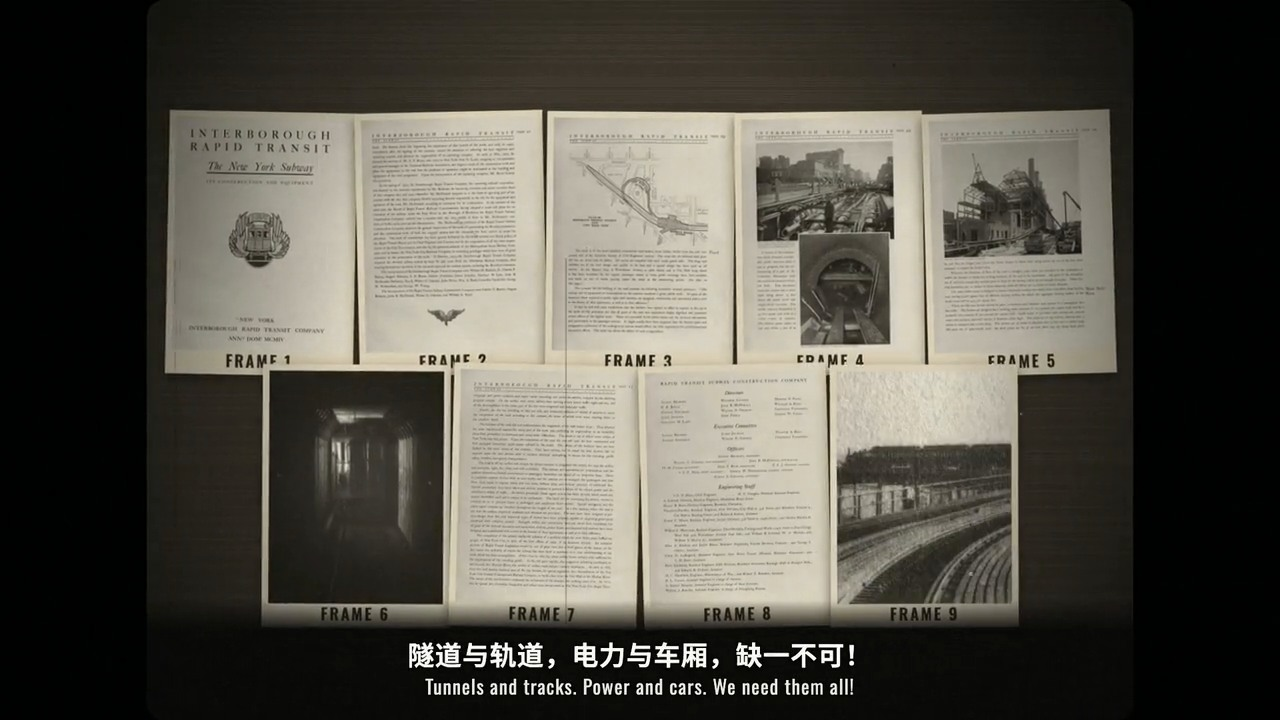
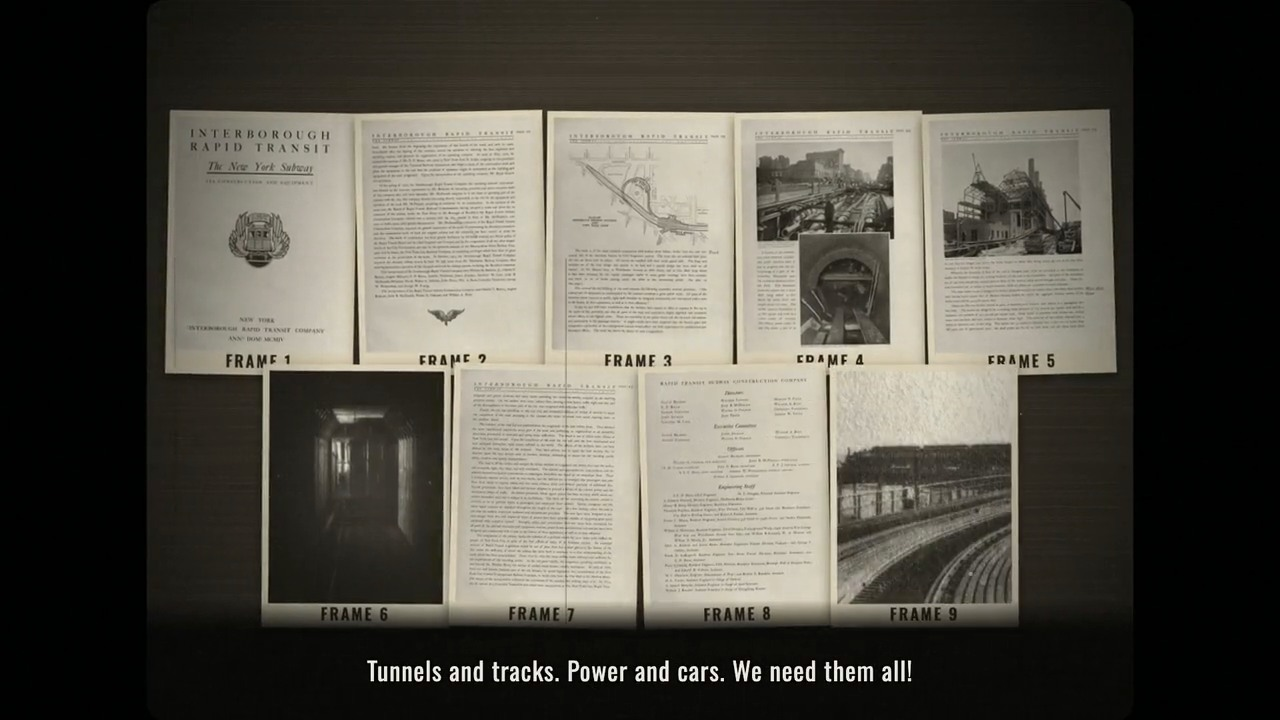
Publish fully English Newsreel films

Changed region(s): [[0.2812, 0.8861, 0.7188, 0.9778]]

diff --git a/styles/newsreel/showcase/index.html b/styles/newsreel/showcase/index.html
@@ -1,2 +1,2 @@
-<!doctype html><html lang="en"><head><meta charset="utf-8"><meta name="viewport" content="width=device-width,initial-scale=1"><meta name="theme-color" content="#eae2cd"><meta name="description" content="Newsreel: archival pictures, spinning headlines, paper montages and a voice from the projection booth. Two original films and an interactive guide from Codex Film Studio."><title>Newsreel — Codex Film Studio</title><link rel="icon" href="../../../catalog/mark.svg" type="image/svg+xml"><link rel="stylesheet" href="showcase.css"><script type="module" src="showcase.mjs"></script></head><body><a data-en="Skip to the films" data-zh="跳到放映厅" class="skip" href="#screening">Skip to the films</a><div class="paper"><header><div class="utility"><a class="studio" data-home href="../../../index.html">CODEX / FILM STUDIO</a><nav><a data-en="All styles ↗" data-zh="全部风格 ↗" data-home href="../../../index.html#library">All styles ↗</a><a data-en="Make a film" data-zh="创作一部影片" href="#make">Make a film</a><a data-en="Sources" data-zh="来源与鸣谢" href="#sources">Sources</a></nav><div class="languages" role="group" aria-label="Page language / 页面语言"><button data-lang="en" aria-pressed="true">EN</button><button data-lang="zh" aria-pressed="false">中文</button></div></div><div class="masthead"><span class="mast-seal" aria-hidden="true">24<br><small>FRAMES<br>PER SECOND</small></span><div><p class="overline">THE CODEX MOVING PICTURE GAZETTE</p><h1>NEWSREEL</h1></div><span class="extra" aria-hidden="true">EXTRA!<br><small>PICTURES<br>THAT MOVE</small></span></div><div class="issue"><span data-en="ARCHIVE PICTURES · NEW STORIES" data-zh="档案影像 · 全新故事" >ARCHIVE PICTURES · NEW STORIES</span><span data-en="THE DOUBLE FEATURE EDITION" data-zh="双片放映特刊" >THE DOUBLE FEATURE EDITION</span><span data-en="SOUND ON. LIGHTS DOWN." data-zh="打开声音，暗下灯光。" >SOUND ON. LIGHTS DOWN.</span></div></header><main><section id="screening" class="screening" aria-labelledby="screening-title"><div class="screening-heading"><div><p data-en="01 / NOW SHOWING" data-zh="01 / 正在放映" class="overline">01 / NOW SHOWING</p><h2 data-en="Yesterday, in motion." data-zh="昨日，开始流动。" id="screening-title">Yesterday, in motion.</h2></div><p data-en="Two stories. One projection booth. Original narration and real archival pictures, brought together in the language of the old newsreel." data-zh="两段故事，一间放映室。全新旁白与真实档案影像，重新组装成老新闻片的语言。" class="dek">Two stories. One projection booth. Original narration and real archival pictures, brought together in the language of the old newsreel.</p></div><div class="cinema-layout"><div class="projector"><div class="projector-bar"><span>NEWSREEL / SOUND PICTURES</span><span id="film-meta">03:00 · 24 FPS</span></div><video id="film" controls playsinline preload="metadata" src="https://github.com/visiontrail/codex-film-studio/releases/download/newsreel-double-feature-v2/subway.mp4" poster="media/subway.jpg" aria-label="Newsreel film"><track kind="subtitles" src="media/subway.en.vtt" srclang="en" label="English"></video><div class="projector-bottom"><button id="film-play" type="button"><span data-en="▶ Start the reel" data-zh="▶ 开始放映" >▶ Start the reel</span></button><a id="download" href="https://github.com/visiontrail/codex-film-studio/releases/download/newsreel-double-feature-v2/subway.mp4" download><span data-en="Download MP4 ↗" data-zh="下载 MP4 ↗" >Download MP4 ↗</span></a><span class="format">H.264 / AAC</span></div><p id="film-error" role="status" hidden></p></div><aside class="programme"><p class="overline"><span data-en="THE PROGRAMME" data-zh="本期片目" >THE PROGRAMME</span></p><div id="films" role="group" aria-label="Choose a film / 选择影片"></div><div class="programme-note"><span class="star" aria-hidden="true">✳</span><p data-en="English announcer.&lt;br&gt;Chinese &amp; English captions.&lt;br&gt;Three minutes per reel." data-zh="英文播音。&lt;br&gt;中英双语字幕。&lt;br&gt;每卷，三分钟。" >English announcer.<br>Chinese & English captions.<br>Three minutes per reel.</p></div><p class="web-note"><span data-en="Complete 720p web editions. The 1080p masters remain in the independent production." data-zh="这里播放完整的 720p 网络版，1080p 原片保留在独立制作工程。" >Complete 720p web editions. The 1080p masters remain in the independent production.</span></p></aside></div><div class="film-caption"><h3 id="film-title"><span data-en="The feature presentation" data-zh="本期影片" >The feature presentation</span></h3><p id="film-description"></p></div><div class="chapter-label"><h3 data-en="The reel, chapter by chapter." data-zh="沿着片章，进入故事。" >The reel, chapter by chapter.</h3><span data-en="CHOOSE A CHAPTER TO SEEK" data-zh="点击片章，跳转播放" class="overline">CHOOSE A CHAPTER TO SEEK</span></div><div id="chapters" class="chapters"></div><details class="transcript"><summary><span data-en="Read the narration" data-zh="阅读旁白" >Read the narration</span><span aria-hidden="true">＋</span></summary><div id="transcript"></div></details><noscript><p>Watch the film above. <a href="https://github.com/visiontrail/codex-film-studio/releases/download/newsreel-double-feature-v2/weekend.mp4">Watch the second film</a>. Enable JavaScript for language, chapters and interactive study.</p></noscript></section><section id="language" class="language-section ruled"><div class="section-title"><div><p data-en="02 / THE VISUAL LANGUAGE" data-zh="02 / 风格语言" class="overline">02 / THE VISUAL LANGUAGE</p><h2 data-en="Ink. Silver. A little static." data-zh="油墨，银幕，&lt;br&gt;一点沙沙声。" >Ink. Silver. A little static.</h2></div><p data-en="A newspaper that refuses to sit still. Print has weight, pictures have age, and the next headline is always on its way." data-zh="一份不肯安静的报纸。纸张有分量，影像有年代，下一条新闻随时到来。" class="dek">A newspaper that refuses to sit still. Print has weight, pictures have age, and the next headline is always on its way.</p></div><div class="editorial-columns"><article><div class="rule-art paper-mark" aria-hidden="true"><span>EXTRA!</span></div><span class="overline">01</span><h3 data-en="The paper carries the story." data-zh="让纸张承载故事。" >The paper carries the story.</h3><p data-en="Headlines spin into view. Nine portrait cards form a 5 + 4 montage, then the first picture fills the screen. The page turns from its spine." data-zh="头条旋入画面。九张竖卡以五加四排开，第一张照片随后放大。翻页从书脊开始。" >Headlines spin into view. Nine portrait cards form a 5 + 4 montage, then the first picture fills the screen. The page turns from its spine.</p></article><article><div class="rule-art gate-mark" aria-hidden="true"><span>◉</span></div><span class="overline">02</span><h3 data-en="Keep a little imperfection." data-zh="保留一点不完美。" >Keep a little imperfection.</h3><p data-en="Warm monochrome, rounded gates, dust and restrained weave. Let the archival image remain legible beneath the film texture." data-zh="暖调黑白、圆角片门、尘点与轻微走片。胶片纹理之下，档案画面依然要看得清楚。" >Warm monochrome, rounded gates, dust and restrained weave. Let the archival image remain legible beneath the film texture.</p></article><article><div class="rule-art sound-mark" aria-hidden="true"><span>▂▅▃▇▂▆▃</span></div><span class="overline">03</span><h3 data-en="Give the edit a voice." data-zh="让剪辑带着声音。" >Give the edit a voice.</h3><p data-en="An urgent announcer, a brisk band, a paper snap. Voice, captions, camera and foley meet on the same frame." data-zh="急促的播音、轻快的乐队、纸张落下的一声脆响。旁白、字幕、镜头与拟音对准同一帧。" >An urgent announcer, a brisk band, a paper snap. Voice, captions, camera and foley meet on the same frame.</p></article></div></section><section id="study" class="study ruled"><div class="section-title"><div><p data-en="03 / AT THE EDITING TABLE" data-zh="03 / 剪辑台上" class="overline">03 / AT THE EDITING TABLE</p><h2 data-en="Turn the handle." data-zh="转动放映机。" >Turn the handle.</h2></div><p data-en="An original, silent study of the style. Play the sequence, move the film strip, or jump directly to an effect." data-zh="一段原创的无声风格演示。播放全段、拖动胶片，或直接跳到某个效果。" class="dek">An original, silent study of the style. Play the sequence, move the film strip, or jump directly to an effect.</p></div><div class="study-layout"><div class="study-screen"><canvas id="study-canvas" width="1280" height="720" role="img" aria-label="Animated paper, nine cards, a turning page and an iris transition / 纸张、九张卡片、翻页和光圈转场"></canvas><div class="study-label"><span id="effect-label">01 / EXTRA! EXTRA!</span><span>STYLE STUDY / 20 SEC / SILENT</span></div></div><div class="effect-list" role="group" aria-label="Choose an effect / 选择效果"><button type="button" data-effect="0" aria-pressed="true"><span class="effect-number">01</span><span><b data-en="Spinning headline" data-zh="旋转头条" >Spinning headline</b><small>PAPER / IMPACT</small></span><span aria-hidden="true">↗</span></button><button type="button" data-effect="1" aria-pressed="false"><span class="effect-number">02</span><span><b data-en="Nine-frame montage" data-zh="九张纸卡" >Nine-frame montage</b><small>5 + 4 / ZOOM</small></span><span aria-hidden="true">↗</span></button><button type="button" data-effect="2" aria-pressed="false"><span class="effect-number">03</span><span><b data-en="Turn the page" data-zh="书脊翻页" >Turn the page</b><small>HINGE / SHADOW</small></span><span aria-hidden="true">↗</span></button><button type="button" data-effect="3" aria-pressed="false"><span class="effect-number">04</span><span><b data-en="Close the iris" data-zh="光圈收幕" >Close the iris</b><small>CIRCLE / HOLD</small></span><span aria-hidden="true">↗</span></button></div></div><div class="transport"><button id="study-play" type="button" aria-pressed="false">▶ Play study</button><button id="study-restart" type="button" aria-label="Restart study / 重新开始">↺</button><label class="sr-only" for="study-time">Study time / 演示时间</label><input id="study-time" type="range" min="0" max="20" value="2.7" step="0.0416666667"><output id="study-clock">02.70 / 20.00</output><label class="texture-toggle"><input id="texture" type="checkbox" checked><span data-en="Film texture" data-zh="胶片质感" >Film texture</span></label></div><p data-en="Starts paused. The drawings are schematic, made for this study; they are not historical evidence." data-zh="默认暂停。演示中的图形为示意绘制，不作为历史资料。" class="study-note">Starts paused. The drawings are schematic, made for this study; they are not historical evidence.</p></section><section id="make" class="make ruled"><div class="section-title"><div><p data-en="04 / FILE YOUR OWN DISPATCH" data-zh="04 / 发出你的新闻" class="overline">04 / FILE YOUR OWN DISPATCH</p><h2 data-en="Your story.&lt;br&gt;Hot off the press." data-zh="你的故事，&lt;br&gt;即刻付印。" >Your story.<br>Hot off the press.</h2></div><p data-en="Bring a subject, an audience and a running time. Find the pictures that belong to that story, then give them a shared clock." data-zh="带来题材、观众和时长。找到属于这段故事的画面，再让它们对准同一个时钟。" class="dek">Bring a subject, an audience and a running time. Find the pictures that belong to that story, then give them a shared clock.</p></div><ol class="steps"><li><span>01</span><h3 data-en="Get the studio." data-zh="取得工作室。" >Get the studio.</h3><p data-en="Clone the library and open it in Codex." data-zh="克隆风格库，在 Codex 中打开。" >Clone the library and open it in Codex.</p><pre><code>git clone https://github.com/visiontrail/codex-film-studio.git
+<!doctype html><html lang="en"><head><meta charset="utf-8"><meta name="viewport" content="width=device-width,initial-scale=1"><meta name="theme-color" content="#eae2cd"><meta name="description" content="Newsreel: archival pictures, spinning headlines, paper montages and a voice from the projection booth. Two original films and an interactive guide from Codex Film Studio."><title>Newsreel — Codex Film Studio</title><link rel="icon" href="../../../catalog/mark.svg" type="image/svg+xml"><link rel="stylesheet" href="showcase.css"><script type="module" src="showcase.mjs"></script></head><body><a data-en="Skip to the films" data-zh="跳到放映厅" class="skip" href="#screening">Skip to the films</a><div class="paper"><header><div class="utility"><a class="studio" data-home href="../../../index.html">CODEX / FILM STUDIO</a><nav><a data-en="All styles ↗" data-zh="全部风格 ↗" data-home href="../../../index.html#library">All styles ↗</a><a data-en="Make a film" data-zh="创作一部影片" href="#make">Make a film</a><a data-en="Sources" data-zh="来源与鸣谢" href="#sources">Sources</a></nav><div class="languages" role="group" aria-label="Page language / 页面语言"><button data-lang="en" aria-pressed="true">EN</button><button data-lang="zh" aria-pressed="false">中文</button></div></div><div class="masthead"><span class="mast-seal" aria-hidden="true">24<br><small>FRAMES<br>PER SECOND</small></span><div><p class="overline">THE CODEX MOVING PICTURE GAZETTE</p><h1>NEWSREEL</h1></div><span class="extra" aria-hidden="true">EXTRA!<br><small>PICTURES<br>THAT MOVE</small></span></div><div class="issue"><span data-en="ARCHIVE PICTURES · NEW STORIES" data-zh="档案影像 · 全新故事" >ARCHIVE PICTURES · NEW STORIES</span><span data-en="THE DOUBLE FEATURE EDITION" data-zh="双片放映特刊" >THE DOUBLE FEATURE EDITION</span><span data-en="SOUND ON. LIGHTS DOWN." data-zh="打开声音，暗下灯光。" >SOUND ON. LIGHTS DOWN.</span></div></header><main><section id="screening" class="screening" aria-labelledby="screening-title"><div class="screening-heading"><div><p data-en="01 / NOW SHOWING" data-zh="01 / 正在放映" class="overline">01 / NOW SHOWING</p><h2 data-en="Yesterday, in motion." data-zh="昨日，开始流动。" id="screening-title">Yesterday, in motion.</h2></div><p data-en="Two stories. One projection booth. Original narration and real archival pictures, brought together in the language of the old newsreel." data-zh="两段故事，一间放映室。全新旁白与真实档案影像，重新组装成老新闻片的语言。" class="dek">Two stories. One projection booth. Original narration and real archival pictures, brought together in the language of the old newsreel.</p></div><div class="cinema-layout"><div class="projector"><div class="projector-bar"><span>NEWSREEL / SOUND PICTURES</span><span id="film-meta">03:00 · 24 FPS</span></div><video id="film" controls playsinline preload="metadata" src="https://github.com/visiontrail/codex-film-studio/releases/download/newsreel-english-v3/subway.mp4" poster="media/subway.jpg" aria-label="Newsreel film"><track kind="subtitles" src="media/subway.en.vtt" srclang="en" label="English"></video><div class="projector-bottom"><button id="film-play" type="button"><span data-en="▶ Start the reel" data-zh="▶ 开始放映" >▶ Start the reel</span></button><a id="download" href="https://github.com/visiontrail/codex-film-studio/releases/download/newsreel-english-v3/subway.mp4" download><span data-en="Download MP4 ↗" data-zh="下载 MP4 ↗" >Download MP4 ↗</span></a><span class="format">H.264 / AAC</span></div><p id="film-error" role="status" hidden></p></div><aside class="programme"><p class="overline"><span data-en="THE PROGRAMME" data-zh="本期片目" >THE PROGRAMME</span></p><div id="films" role="group" aria-label="Choose a film / 选择影片"></div><div class="programme-note"><span class="star" aria-hidden="true">✳</span><p data-en="English announcer.&lt;br&gt;English titles &amp; captions.&lt;br&gt;Three minutes per reel." data-zh="英文播音。&lt;br&gt;英文标题与字幕。&lt;br&gt;每卷，三分钟。" >English announcer.<br>English titles & captions.<br>Three minutes per reel.</p></div><p class="web-note"><span data-en="Complete 720p web editions. The 1080p masters remain in the independent production." data-zh="这里播放完整的 720p 网络版，1080p 原片保留在独立制作工程。" >Complete 720p web editions. The 1080p masters remain in the independent production.</span></p></aside></div><div class="film-caption"><h3 id="film-title"><span data-en="The feature presentation" data-zh="本期影片" >The feature presentation</span></h3><p id="film-description"></p></div><div class="chapter-label"><h3 data-en="The reel, chapter by chapter." data-zh="沿着片章，进入故事。" >The reel, chapter by chapter.</h3><span data-en="CHOOSE A CHAPTER TO SEEK" data-zh="点击片章，跳转播放" class="overline">CHOOSE A CHAPTER TO SEEK</span></div><div id="chapters" class="chapters"></div><details class="transcript"><summary><span data-en="Read the narration" data-zh="阅读旁白" >Read the narration</span><span aria-hidden="true">＋</span></summary><div id="transcript"></div></details><noscript><p>Watch the film above. <a href="https://github.com/visiontrail/codex-film-studio/releases/download/newsreel-english-v3/weekend.mp4">Watch the second film</a>. Enable JavaScript for language, chapters and interactive study.</p></noscript></section><section id="language" class="language-section ruled"><div class="section-title"><div><p data-en="02 / THE VISUAL LANGUAGE" data-zh="02 / 风格语言" class="overline">02 / THE VISUAL LANGUAGE</p><h2 data-en="Ink. Silver. A little static." data-zh="油墨，银幕，&lt;br&gt;一点沙沙声。" >Ink. Silver. A little static.</h2></div><p data-en="A newspaper that refuses to sit still. Print has weight, pictures have age, and the next headline is always on its way." data-zh="一份不肯安静的报纸。纸张有分量，影像有年代，下一条新闻随时到来。" class="dek">A newspaper that refuses to sit still. Print has weight, pictures have age, and the next headline is always on its way.</p></div><div class="editorial-columns"><article><div class="rule-art paper-mark" aria-hidden="true"><span>EXTRA!</span></div><span class="overline">01</span><h3 data-en="The paper carries the story." data-zh="让纸张承载故事。" >The paper carries the story.</h3><p data-en="Headlines spin into view. Nine portrait cards form a 5 + 4 montage, then the first picture fills the screen. The page turns from its spine." data-zh="头条旋入画面。九张竖卡以五加四排开，第一张照片随后放大。翻页从书脊开始。" >Headlines spin into view. Nine portrait cards form a 5 + 4 montage, then the first picture fills the screen. The page turns from its spine.</p></article><article><div class="rule-art gate-mark" aria-hidden="true"><span>◉</span></div><span class="overline">02</span><h3 data-en="Keep a little imperfection." data-zh="保留一点不完美。" >Keep a little imperfection.</h3><p data-en="Warm monochrome, rounded gates, dust and restrained weave. Let the archival image remain legible beneath the film texture." data-zh="暖调黑白、圆角片门、尘点与轻微走片。胶片纹理之下，档案画面依然要看得清楚。" >Warm monochrome, rounded gates, dust and restrained weave. Let the archival image remain legible beneath the film texture.</p></article><article><div class="rule-art sound-mark" aria-hidden="true"><span>▂▅▃▇▂▆▃</span></div><span class="overline">03</span><h3 data-en="Give the edit a voice." data-zh="让剪辑带着声音。" >Give the edit a voice.</h3><p data-en="An urgent announcer, a brisk band, a paper snap. Voice, captions, camera and foley meet on the same frame." data-zh="急促的播音、轻快的乐队、纸张落下的一声脆响。旁白、字幕、镜头与拟音对准同一帧。" >An urgent announcer, a brisk band, a paper snap. Voice, captions, camera and foley meet on the same frame.</p></article></div></section><section id="study" class="study ruled"><div class="section-title"><div><p data-en="03 / AT THE EDITING TABLE" data-zh="03 / 剪辑台上" class="overline">03 / AT THE EDITING TABLE</p><h2 data-en="Turn the handle." data-zh="转动放映机。" >Turn the handle.</h2></div><p data-en="An original, silent study of the style. Play the sequence, move the film strip, or jump directly to an effect." data-zh="一段原创的无声风格演示。播放全段、拖动胶片，或直接跳到某个效果。" class="dek">An original, silent study of the style. Play the sequence, move the film strip, or jump directly to an effect.</p></div><div class="study-layout"><div class="study-screen"><canvas id="study-canvas" width="1280" height="720" role="img" aria-label="Animated paper, nine cards, a turning page and an iris transition / 纸张、九张卡片、翻页和光圈转场"></canvas><div class="study-label"><span id="effect-label">01 / EXTRA! EXTRA!</span><span>STYLE STUDY / 20 SEC / SILENT</span></div></div><div class="effect-list" role="group" aria-label="Choose an effect / 选择效果"><button type="button" data-effect="0" aria-pressed="true"><span class="effect-number">01</span><span><b data-en="Spinning headline" data-zh="旋转头条" >Spinning headline</b><small>PAPER / IMPACT</small></span><span aria-hidden="true">↗</span></button><button type="button" data-effect="1" aria-pressed="false"><span class="effect-number">02</span><span><b data-en="Nine-frame montage" data-zh="九张纸卡" >Nine-frame montage</b><small>5 + 4 / ZOOM</small></span><span aria-hidden="true">↗</span></button><button type="button" data-effect="2" aria-pressed="false"><span class="effect-number">03</span><span><b data-en="Turn the page" data-zh="书脊翻页" >Turn the page</b><small>HINGE / SHADOW</small></span><span aria-hidden="true">↗</span></button><button type="button" data-effect="3" aria-pressed="false"><span class="effect-number">04</span><span><b data-en="Close the iris" data-zh="光圈收幕" >Close the iris</b><small>CIRCLE / HOLD</small></span><span aria-hidden="true">↗</span></button></div></div><div class="transport"><button id="study-play" type="button" aria-pressed="false">▶ Play study</button><button id="study-restart" type="button" aria-label="Restart study / 重新开始">↺</button><label class="sr-only" for="study-time">Study time / 演示时间</label><input id="study-time" type="range" min="0" max="20" value="2.7" step="0.0416666667"><output id="study-clock">02.70 / 20.00</output><label class="texture-toggle"><input id="texture" type="checkbox" checked><span data-en="Film texture" data-zh="胶片质感" >Film texture</span></label></div><p data-en="Starts paused. The drawings are schematic, made for this study; they are not historical evidence." data-zh="默认暂停。演示中的图形为示意绘制，不作为历史资料。" class="study-note">Starts paused. The drawings are schematic, made for this study; they are not historical evidence.</p></section><section id="make" class="make ruled"><div class="section-title"><div><p data-en="04 / FILE YOUR OWN DISPATCH" data-zh="04 / 发出你的新闻" class="overline">04 / FILE YOUR OWN DISPATCH</p><h2 data-en="Your story.&lt;br&gt;Hot off the press." data-zh="你的故事，&lt;br&gt;即刻付印。" >Your story.<br>Hot off the press.</h2></div><p data-en="Bring a subject, an audience and a running time. Find the pictures that belong to that story, then give them a shared clock." data-zh="带来题材、观众和时长。找到属于这段故事的画面，再让它们对准同一个时钟。" class="dek">Bring a subject, an audience and a running time. Find the pictures that belong to that story, then give them a shared clock.</p></div><ol class="steps"><li><span>01</span><h3 data-en="Get the studio." data-zh="取得工作室。" >Get the studio.</h3><p data-en="Clone the library and open it in Codex." data-zh="克隆风格库，在 Codex 中打开。" >Clone the library and open it in Codex.</p><pre><code>git clone https://github.com/visiontrail/codex-film-studio.git
 cd codex-film-studio</code></pre></li><li><span>02</span><h3 data-en="Start a fresh reel." data-zh="创建一卷新片。" >Start a fresh reel.</h3><p data-en="Create an independent production with blank inputs." data-zh="用空白输入创建独立制作工程。" >Create an independent production with blank inputs.</p><pre><code id="command">python3 scripts/new_film.py my-film --style newsreel</code></pre><button class="text-button" data-copy="command"><span data-en="Copy command ↗" data-zh="复制命令 ↗" >Copy command ↗</span></button></li><li><span>03</span><h3 data-en="Write. Assemble. Review." data-zh="写作，组装，复查。" >Write. Assemble. Review.</h3><p data-en="Author the scenes and audio, render the film, then inspect its pictures, motion and sound." data-zh="编写场景与声音，渲染影片，再检查画面、运动和音轨。" >Author the scenes and audio, render the film, then inspect its pictures, motion and sound.</p><a href="https://github.com/visiontrail/codex-film-studio/blob/main/styles/newsreel/STYLE.md"><span data-en="Read the style guide ↗" data-zh="阅读风格指南 ↗" >Read the style guide ↗</span></a></li></ol><div class="prompt"><div class="prompt-stamp">MAKE<br>IT NEWS</div><div><p data-en="A CREATIVE BRIEF TO COPY" data-zh="可复制的创作指令" class="overline">A CREATIVE BRIEF TO COPY</p><blockquote data-en="Make a three-minute Newsreel film about [subject] for [audience]. Use relevant, credited archive pictures, warm monochrome, printed headlines, paper montages and purposeful period transitions. Write an original announcer script. Keep picture, voice, captions and foley on one timeline. Inspect the encoded frames, motion and audio; fix the problems you observe." data-zh="为[观众]制作一部关于[题材]的三分钟 Newsreel 影片。使用相关且注明来源的档案画面、暖调黑白、印刷头条、纸卡蒙太奇和有叙事作用的年代转场。重新写播音稿，让画面、语音、字幕与拟音共用时间线。检查编码后的画面、运动和声音，修复实际观察到的问题。" id="prompt">Make a three-minute Newsreel film about [subject] for [audience]. Use relevant, credited archive pictures, warm monochrome, printed headlines, paper montages and purposeful period transitions. Write an original announcer script. Keep picture, voice, captions and foley on one timeline. Inspect the encoded frames, motion and audio; fix the problems you observe.</blockquote><button class="text-button" data-copy="prompt"><span data-en="Copy creative brief ↗" data-zh="复制创作指令 ↗" >Copy creative brief ↗</span></button><p id="copy-status" role="status"></p></div></div><p data-en="The reusable package is an authoring starter: a style guide, blank input contract and shared review tools. New scenes, a renderer and audio must be authored for each production." data-zh="可复用包为创作起步包，包含风格指南、空白输入合同与通用审查工具。每次制作仍需编写场景、渲染器和声音。" class="starter-note">The reusable package is an authoring starter: a style guide, blank input contract and shared review tools. New scenes, a renderer and audio must be authored for each production.</p></section><section id="notes" class="notes ruled"><div class="section-title"><div><p data-en="05 / NOTES FROM THE BOOTH" data-zh="05 / 放映室笔记" class="overline">05 / NOTES FROM THE BOOTH</p><h2 data-en="Make the past legible." data-zh="让过去，看得清楚。" >Make the past legible.</h2></div></div><div class="editorial-columns"><article><h3 data-en="Keep the date attached." data-zh="别丢掉日期。" >Keep the date attached.</h3><p data-en="A publication date, an opening date and a filming date may differ. Preserve those distinctions in narration and captions." data-zh="出版、开通和拍摄可能发生在不同日期。旁白与字幕要保留这些区别。" >A publication date, an opening date and a filming date may differ. Preserve those distinctions in narration and captions.</p></article><article><h3 data-en="Follow the physical picture." data-zh="跟随纸张的运动。" >Follow the physical picture.</h3><p data-en="A contact shadow stays with its paper. A page turns about a spine. Camera moves reveal the source without inventing missing detail." data-zh="接触阴影跟着纸张，翻页围绕书脊。镜头揭示资料，不凭空补造缺失的细节。" >A contact shadow stays with its paper. A page turns about a spine. Camera moves reveal the source without inventing missing detail.</p></article><article><h3 data-en="Review the actual export." data-zh="检查真正的成片。" >Review the actual export.</h3><p data-en="Map comparable effects by action phase. Continuous frame review and full-size detail checks answer different questions; playback and listening need separate records." data-zh="按动作阶段对照同类效果。连续逐格与原尺寸细节检查各有用途；播放和听音另留记录。" >Map comparable effects by action phase. Continuous frame review and full-size detail checks answer different questions; playback and listening need separate records.</p></article></div><div class="resources"><a href="https://github.com/visiontrail/codex-film-studio/blob/main/DIRECTOR.md"><span data-en="Director’s guide ↗" data-zh="导演指南 ↗" >Director’s guide ↗</span></a><a href="https://github.com/visiontrail/codex-film-studio/blob/main/TECHNIQUE.md"><span data-en="Production methods ↗" data-zh="制作方法 ↗" >Production methods ↗</span></a><a href="https://github.com/visiontrail/codex-film-studio/tree/main/styles/newsreel"><span data-en="Explore the starter ↗" data-zh="浏览起步包 ↗" >Explore the starter ↗</span></a></div></section><section id="sources" class="sources ruled"><div><p data-en="06 / THE RECORD BEHIND THE REEL" data-zh="06 / 画面背后的记录" class="overline">06 / THE RECORD BEHIND THE REEL</p><h2 data-en="The archive is part of the story." data-zh="来源，也是故事的一部分。" >The archive is part of the story.</h2></div><div><p data-en="Style and composition reference: LemoLab’s Newsreel, from lemo-opuscar. The two new films use their own narration and scores; historical pictures are credited separately." data-zh="风格与构图参考来自 LemoLab 的 lemo-opuscar Newsreel。两部新片使用独立旁白与配乐，历史影像另列来源。" >Style and composition reference: LemoLab’s Newsreel, from lemo-opuscar. The two new films use their own narration and scores; historical pictures are credited separately.</p><div class="source-links"><a href="https://github.com/lemomo-ai/lemo-opuscar">LemoLab / lemo-opuscar ↗</a><a href="https://github.com/lemomo-ai/lemo-opuscar/releases/download/films/newsreel.mp4"><span data-en="Original reference film ↗" data-zh="参考原片 ↗" >Original reference film ↗</span></a><a href="media/credits.html"><span data-en="Film sources, sound &amp; credits ↗" data-zh="影片来源、声音与鸣谢 ↗" >Film sources, sound & credits ↗</span></a><a href="https://github.com/visiontrail/codex-film-studio/blob/main/styles/newsreel/PROVENANCE.md"><span data-en="Style provenance ↗" data-zh="风格出处 ↗" >Style provenance ↗</span></a></div></div></section></main><footer><a data-home href="../../../index.html">CODEX / FILM STUDIO</a><span data-en="THE END · UNTIL THE NEXT EDITION" data-zh="本期终 · 下期再会" >THE END · UNTIL THE NEXT EDITION</span><a href="https://x.com/LeoGuoLabs">@LeoGuoLabs ↗</a></footer></div></body></html>

diff --git a/styles/newsreel/STYLE.md b/styles/newsreel/STYLE.md
@@ -9,7 +9,7 @@ A period newsreel made from archival pictures, printed headlines, paper montages
 - A nine-card montage uses portrait cards in a 5 + 4 arrangement. Deal them in sequence, then enlarge the first card into the flipbook without a position jump. The studied rhythm is 2.7 seconds for the deal and 2.1 seconds for the flipbook; adapt only with a deliberate timing decision.
 - Turn documents around the left spine with the incoming sheet underneath. Preserve occlusion and shadow through the edge-on frame.
 - Use iris, blinds, clock wipes, split views and freeze-frame pencil marks when they explain a change. Do not use every transition indiscriminately.
-- Pair display lettering with condensed subtitles. Leave a dark lower gradient and safe space for both language lines. Check the actual font's glyph coverage.
+- Pair display lettering with condensed subtitles. Leave a dark lower gradient and safe space for the requested subtitle language and line count. Check the actual font's glyph coverage.
 
 ## Sources, people and sound
 

diff --git a/styles/newsreel/README.md b/styles/newsreel/README.md
@@ -10,7 +10,7 @@ Status: **starter-ready**. The reusable package contains blank inputs and shared
 python3 scripts/new_film.py my-film --style newsreel
 ```
 
-The independent page contains two complete 720p web films, chapters, bilingual transcripts, a silent interactive effect study and a reusable creative prompt. Production-specific media, titles and narration live in a checksum-pinned Release bundle, not in the starter. The 1080p masters and detailed production reviews remain local.
+The independent page contains two complete English-language 720p web films, chapters, bilingual transcripts, a silent interactive effect study and a reusable creative prompt. Production-specific media, titles and narration live in a checksum-pinned Release bundle, not in the starter. The 1080p masters and detailed production reviews remain local.
 
 The complete Newsreel MP4s stream directly from the pinned GitHub Release;
 posters, captions, chapters and credits are installed from its verified small

diff --git a/docs/pages.md b/docs/pages.md
@@ -336,8 +336,9 @@ within budget without reducing the resolution of detailed imagery.
 
 Newsreel has a bilingual standalone page at `styles/newsreel/showcase/index.html`.
 A newspaper masthead and projection-booth player lead with two complete 180-second
-720p web films. Programme selection, six chapters per film and bilingual
-transcripts come from the checksum-pinned `newsreel-double-feature-v2` Release.
+English-language 720p web films. Programme selection, six chapters per film and bilingual
+transcripts come from the checksum-pinned `newsreel-english-v3` Release.
+The films have English narration, titles, map labels, credits and on-screen captions; the page navigation and transcripts remain bilingual.
 The page includes a paused-by-default Canvas study of spinning headlines, nine
 portrait cards, left-spine page turns and an iris close; playback, scrubbing,
 effect selection and film-texture controls work without production assets.

diff --git a/docs/readme/README.md b/docs/readme/README.md
@@ -121,6 +121,6 @@ These style-study previews link to the independent LiDAR Survey page in both
 README galleries and the public collection. No upstream film frames are used.
 
 Newsreel's preview is an actual frame (1315) from the 720p web edition of
-*Under the City*, fidelity-v2, retaining the full composition without decoration.
+*Under the City*, English edition v3, retaining the full composition without decoration.
 Its source and image hashes are recorded in `frames.json`. The page credits
 LemoLab's reference and the new films' archival sources separately.
